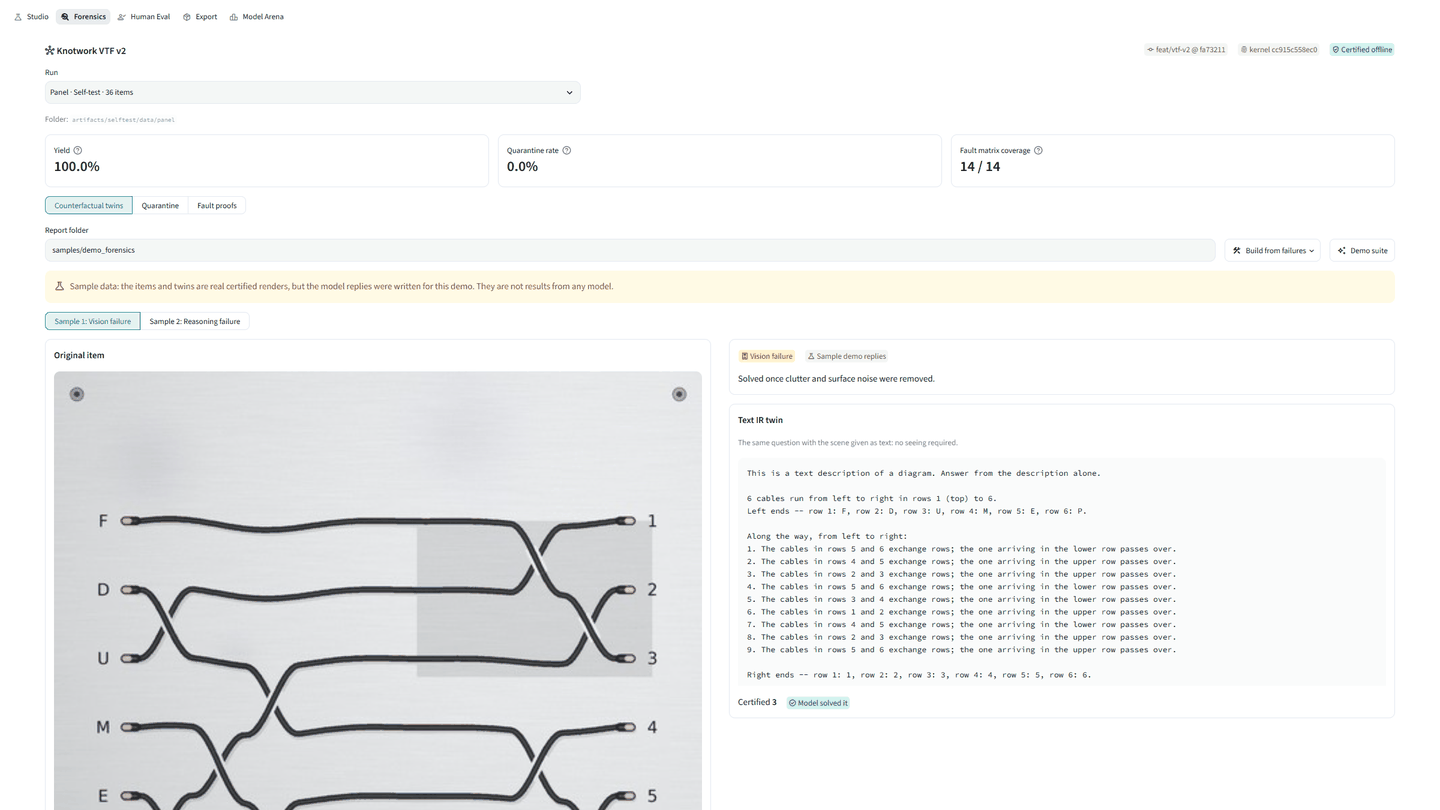
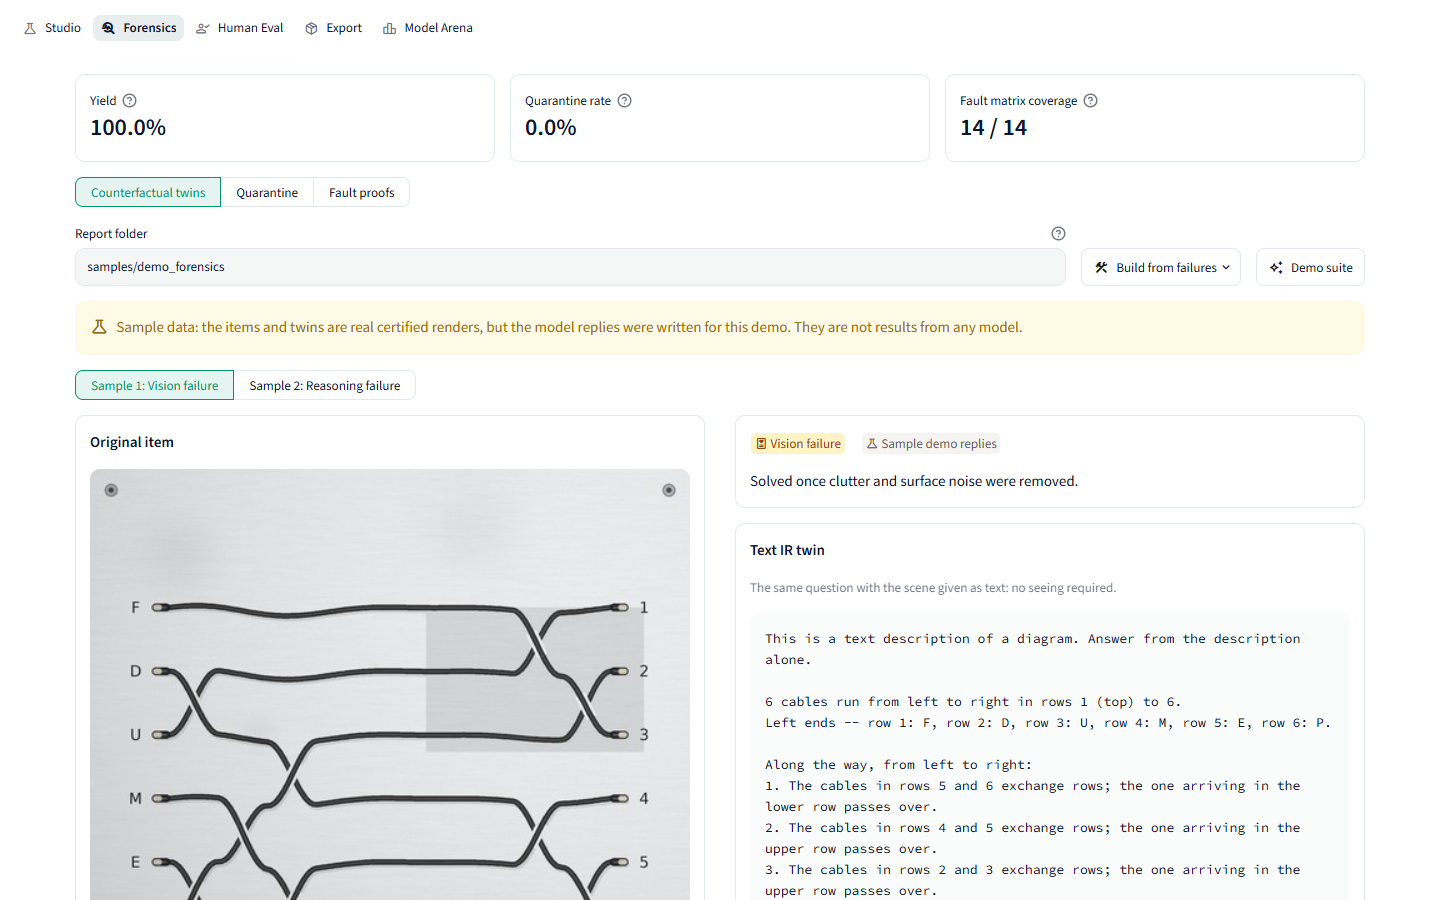
docs(assets): refresh Studio screenshots at native 1440x900
Rack patch-bay witness overlay with the kernel witness pill, Forensics KPI strip
above the vision-vs-reasoning twin comparison, and the Model Arena session with
sidebar, data/results folders, leaderboard and Report tab. README mentions
Guided mode, page guides, quick tour and tooltips.

diff --git a/README.md b/README.md
@@ -53,7 +53,7 @@ tracing, **GPT-5.4 fell from 59.4 % to 3.1 %** (32 matched pairs, exact McNemar 
 geometry was identical in both conditions; only the colour shortcut was removed. (`rack_patch` was added
 after this run, and its offline mock sessions are shown below.)
 
-![Model Arena: completed offline mock Rack patch-bay + Panel comparison with report export](docs/assets/studio_model_arena.png)
+![Model Arena: a completed offline mock Rack patch-bay + Panel comparison with its leaderboard and Report tab](docs/assets/studio_model_arena.png)
 
 <details>
 <summary>Full live results table and caveats</summary>
@@ -129,7 +129,9 @@ network, process and dynamic-code modules, bans `SceneIR.payload` access, and pi
 ![Forensics: 14/14 fault coverage and the Vision-vs-Reasoning twin comparison](docs/assets/studio_forensics.png)
 
 `uv run streamlit run apps/inspector.py`. It runs offline: the Studio sets `KNOTWORK_NETWORK=deny` at
-start-up.
+start-up. Every page has a **Guided mode** strip (step *n* of 5 with a Next step button), a **Page guide**
+popover with steps and glossary terms, a **Quick tour** dialog, and a hover tooltip on each control,
+KPI and leaderboard column.
 
 | Page | What it does |
 |---|---|
